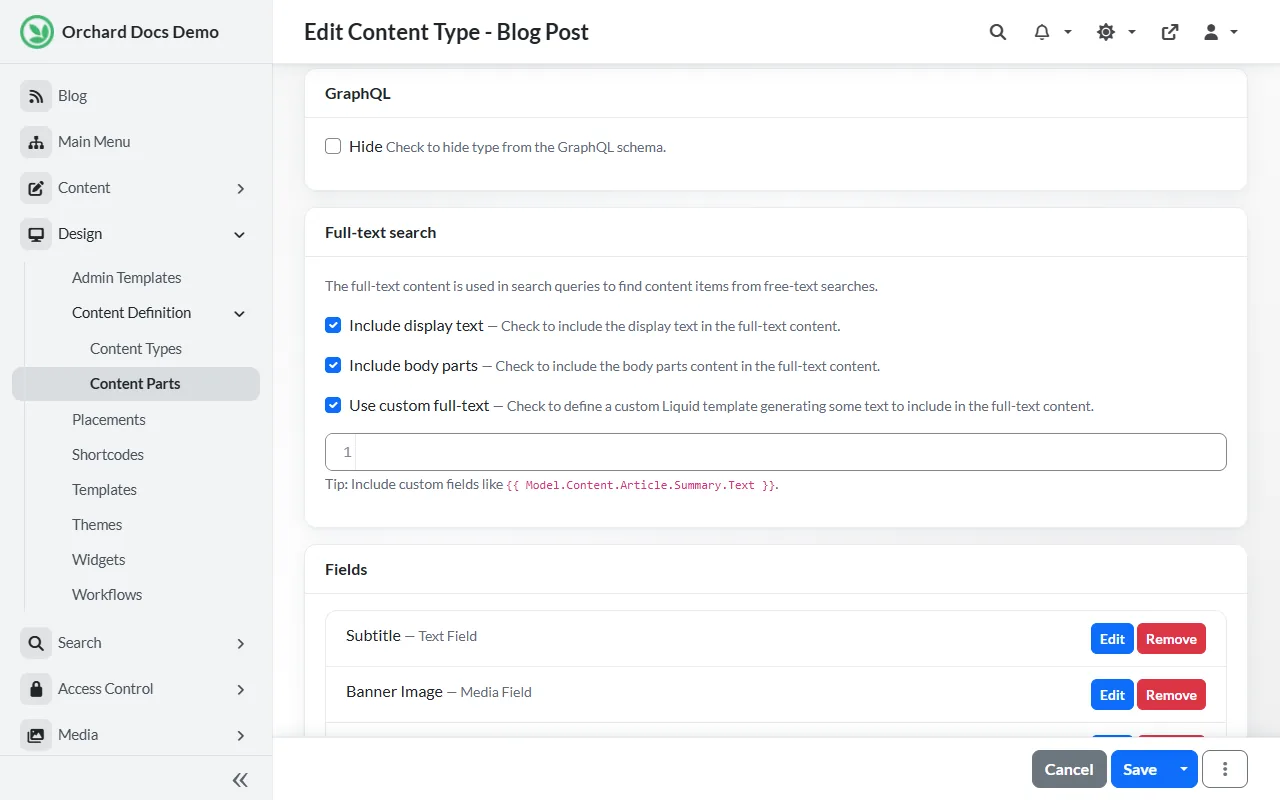
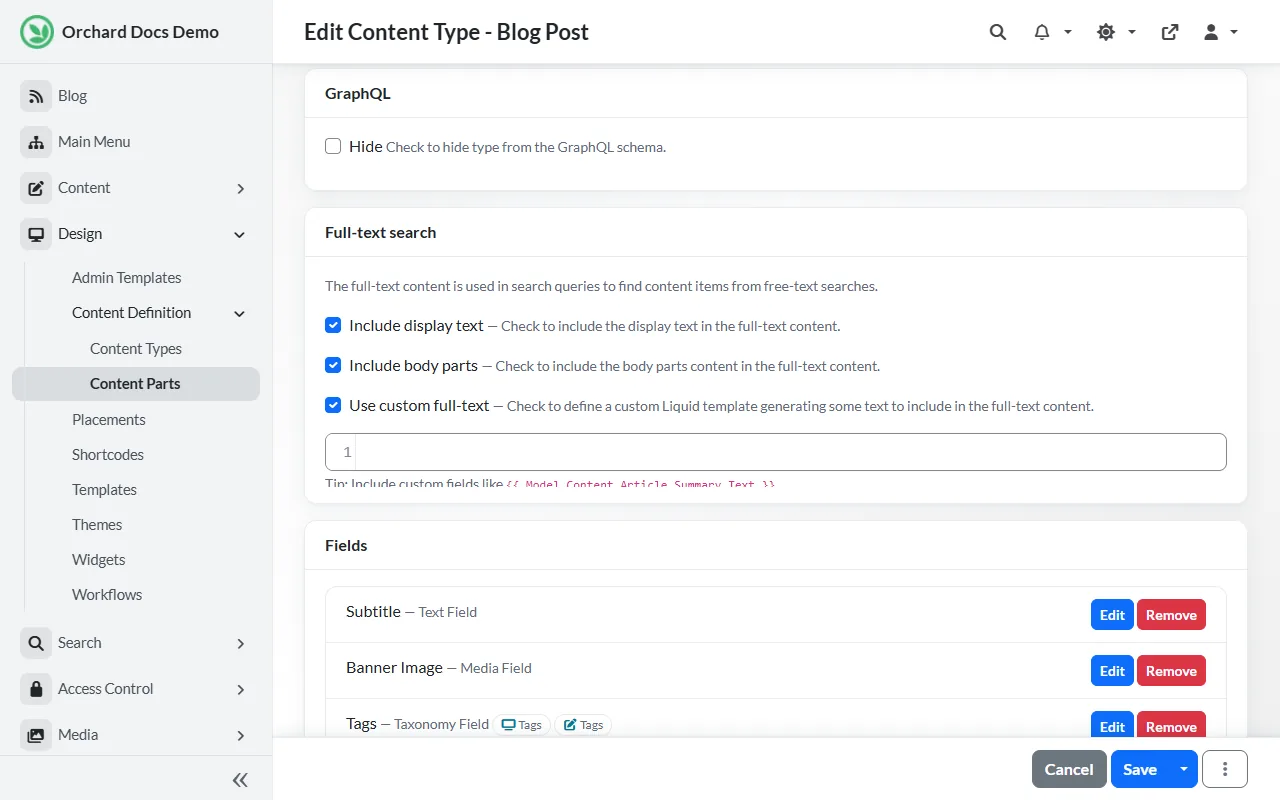
Take the screenshots of the decoupled CMS and CMS application guides
The script scrolls at once, as the admin theme scrolls smoothly and a shot
taken while it moves stops short.

diff --git a/.scripts/docs/screenshots.py b/.scripts/docs/screenshots.py
@@ -56,8 +56,8 @@ SEARCH_RESULTS = [("scroll", "input[name='Terms']", "start")]
 #   steps:     optional actions after opening the page: ("follow", selector) opens the address of the first matching
 #              link, even a hidden one; ("click", selector); ("fill", selector, value); ("type", selector, value) types
 #              the value key by key; ("select", selector, value);
-#              ("check", selector); ("uncheck", selector); ("scroll", selector[, "start"]) scrolls the first matching
-#              element to the middle, or the top, of its container; ("wait", milliseconds). Steps never save a form.
+#              ("check", selector); ("uncheck", selector); ("scroll", selector[, "start" or "end"]) scrolls the first
+#              matching element to the middle, the top or the bottom of its container; ("wait", milliseconds). Steps never save a form.
 #   anonymous: true to take the shot signed out.
 #   full_page: true to capture the whole page instead of the window (cut at 1600 pixels).
 #   site:      the site of SITES the shot is taken from, "blog" when omitted.
@@ -278,6 +278,38 @@ SHOTS = [
      "steps": [("follow", "a[href*='/Workflows/Types/Edit/']:has-text('Contact Form Workflow')"), ("wait", 1500),
                ("click", "[data-cy='toolbox-collapse']"), ("click", "[data-cy='panel-collapse']"),
                ("click", "[data-cy='zoom-fit']"), ("wait", 800)]},
+    # Guides 'Create a CMS application' and 'Decoupled CMS': the setup screen of a tenant that isn't set up yet, filled in.
+    {"file": "../guides/create-cms-application/images/setup-screen.webp", "path": "/Admin/Tenants",
+     "steps": [("follow", "a:has-text('Setup')"), ("fill", "#SiteName", "MySite"), ("click", "#recipeButton"),
+               ("click", "a[data-recipe-name='Blog']"), ("fill", "#UserName", "admin"), ("fill", "#Email", "admin@example.com")]},
+    {"file": "../guides/create-cms-application/images/blog-home-page.webp", "path": "/", "anonymous": True},
+    {"file": "../guides/decoupled-cms/images/setup.webp", "path": "/Admin/Tenants",
+     "steps": [("follow", "a:has-text('Setup')"), ("fill", "#SiteName", "My Site"), ("click", "#recipeButton"),
+               ("click", "a[data-recipe-name='Blank']"), ("fill", "#UserName", "admin"), ("fill", "#Email", "admin@example.com")]},
+    # Guide 'Decoupled CMS', in a tenant set up with the Blank site recipe, with the Markdown, Alias and Preview features.
+    # First with a 'Blog Post' type without parts:
+    {"file": "../guides/decoupled-cms/images/new-content-type.webp", "path": "/Admin/ContentTypes/Create", "tenant": "Decoupled",
+     "steps": [("type", "#DisplayName", "Blog Post")]},
+    {"file": "../guides/decoupled-cms/images/add-content-parts.webp", "path": "/Admin/ContentTypes/AddPartsTo/BlogPost", "tenant": "Decoupled",
+     "steps": [("check", "li:has(label:text-is('Title')) input[type='checkbox']"),
+               ("check", "li:has(label:text-is('MarkdownBody')) input[type='checkbox']")]},
+    # Then with the Title and Markdown Body parts, the Markdown Body using the Wysiwyg editor:
+    {"file": "../guides/decoupled-cms/images/edit-content-type.webp", "path": "/Admin/ContentTypes/Edit/BlogPost", "tenant": "Decoupled",
+     "steps": [("scroll", ".ta-content", "end")]},
+    {"file": "../guides/decoupled-cms/images/edit-markdownbody.webp", "path": "/Admin/ContentTypes/Edit/BlogPost", "tenant": "Decoupled",
+     "steps": [("follow", "a[href*='/ContentParts/MarkdownBodyPart/Edit']")]},
+    {"file": "../guides/decoupled-cms/images/edit-blogpost.webp", "path": "/Admin/Contents/ContentTypes/BlogPost/Create", "tenant": "Decoupled"},
+    # Then with the Alias part after the Title, the Preview part with the pattern of the guide, and the blog post 'This
+    # is a new day' with its generated alias 'this-is-a-new-day':
+    {"file": "../guides/decoupled-cms/images/content-items.webp", "path": "/Admin/Contents/ContentItems", "tenant": "Decoupled"},
+    {"file": "../guides/decoupled-cms/images/edit-alias.webp", "path": "/Admin/Contents/ContentItems", "tenant": "Decoupled",
+     "steps": [("follow", "a[href*='/Edit']:has-text('This is a new day')"), ("fill", "input[name='AliasPart.Alias']", "new-day")]},
+    {"file": "../guides/decoupled-cms/images/alias-pattern.webp", "path": "/Admin/ContentTypes/Edit/BlogPost", "tenant": "Decoupled",
+     "steps": [("follow", "a[href*='/ContentParts/AliasPart/Edit']")]},
+    {"file": "../guides/decoupled-cms/images/generated-alias.webp", "path": "/Admin/Contents/ContentItems", "tenant": "Decoupled",
+     "steps": [("follow", "a[href*='/Edit']:has-text('This is a new day')")]},
+    {"file": "../guides/decoupled-cms/images/preview-pattern.webp", "path": "/Admin/ContentTypes/Edit/BlogPost", "tenant": "Decoupled",
+     "steps": [("follow", "a[href*='/ContentParts/PreviewPart/Edit']")]},
     # Guide 'Microsoft Entra ID integration', in a tenant set up with the Blog recipe. Taken before enabling the
     # Microsoft Entra ID Authentication and Users Registration features:
     {"file": "../guides/microsoft-entra-id-integration/images/entra-id-feature.webp", "path": "/Admin/Features", "tenant": "EntraId",
@@ -344,7 +376,8 @@ def capture(page, url, shot):
             page.uncheck(step[1], force=True)
         elif step[0] == "scroll":
             block = step[2] if len(step) > 2 else "center"
-            page.locator(step[1]).first.evaluate("(element, block) => element.scrollIntoView({ block })", block)
+            # Scroll at once: the admin theme scrolls smoothly, which would still be moving when the shot is taken.
+            page.locator(step[1]).first.evaluate("(element, block) => element.scrollIntoView({ block, behavior: 'instant' })", block)
         elif step[0] == "wait":
             page.wait_for_timeout(step[1])
 

diff --git a/src/docs/guides/decoupled-cms/README.md b/src/docs/guides/decoupled-cms/README.md
@@ -124,7 +124,7 @@ app.Run();
 
 Start the application, the Setup screen shows up:
 
-![Setup](images/setup.jpg)
+![The setup screen, with My Site as the site name and the Blank site recipe.](images/setup.webp)
 
 ### Setting up a new site
 
@@ -171,16 +171,16 @@ Let's create a new content type named `Blog Post` and add some necessary content
 - Click on __Create new type__ in the top right corner
 - In __Display Name__ enter `Blog Post`. The __Technical Name__ will be generated automatically with the value `BlogPost`, like this:
 
-![New Content Type](images/new-content-type.jpg)
+![The New Content Type page, with Blog Post as the display name.](images/new-content-type.webp)
 
 - Click __Create__
 - A list of __Content Parts__ is presented. Select __Title__ and __Markdown Body__, then click on __Save__
 
-![Add Content Parts](images/add-content-parts.jpg)
+![The Add Parts page of Blog Post, with MarkdownBody and Title checked.](images/add-content-parts.webp)
 
 - In the following screen, scroll to the bottom of the page and re-order the Parts like this:
 
-![Edit Content Type](images/edit-content-type.jpg)
+![The Blog Post content type editor, with the Title and MarkdownBody parts.](images/edit-content-type.webp)
 
 - Then click __Save__
 
@@ -189,7 +189,7 @@ You can notice an __Edit__ button in front of each content part. This lets us de
 - On the `MarkdownBody` part, click __Edit__.
 - Select __`Wysiwyg editor`__ as the type of editor to use, then click __Save__:
 
-![Edit Markdown Body Type](images/edit-markdownbody.jpg)
+![The MarkdownBody part settings of Blog Post, with the Wysiwyg editor.](images/edit-markdownbody.webp)
 
 The __Blog Post__ content type is ready to use.
 
@@ -198,11 +198,11 @@ The __Blog Post__ content type is ready to use.
 - In the left menu, select __Content__ then __ContentItems__
 - Click on __New Blog Post__ to reveal an editor for the newly created `BlogPost` content type.
 
-![Edit Blog Post](images/edit-blogpost.jpg)
+![The editor of a new blog post, with its Title and MarkdownBody.](images/edit-blogpost.webp)
 
 - Fill in the __Title__ and the __MarkdownBody__ form elements with some content, then click on __Publish__. For the sake of this example we'll use `This is a new day` and some Lorem Ipsum text.
 
-![Content Items](images/content-items-1.jpg)
+![The content items list, with the blog post This is a new day.](images/content-items.webp)
 
 This shows that we now have a new blog post content item named `This is a new day`. As we create more content items these will appear on this page.
 
@@ -320,7 +320,7 @@ In Orchard Core CMS the __Alias Part__ allows to provide a custom user friendly 
 - Move __Alias__ under __Title__ and save
 - Edit the blog post, the __Alias__ text box is now displayed, in which you can enter some text. In this example we'll use `new-day`
 
-![Edit Alias](images/edit-alias.jpg)
+![The editor of the blog post, with new-day as its alias.](images/edit-alias.webp)
 
 We can now update the Razor Page to use the alias instead of the content item id, in both the URL and in the way we load the content item.
 
@@ -355,7 +355,7 @@ The __Alias Part__ provides some custom settings in order to let it be generated
 - Edit the content definition of Blog Post, and for the __Alias Part__ click on __Edit__.
 - In the __Pattern__ textbox note the pre-filled pattern:
 
-![Edit Alias Pattern](images/alias-pattern.jpg)
+![The Alias part settings of Blog Post, with the pattern of the alias.](images/alias-pattern.webp)
 
 This will dynamically extract the `DisplayText` property of a content item, in our case the __Title__, and call the `slugify` filter on this values, which will turn the title into a value that can be used in slugs.
 
@@ -365,7 +365,7 @@ This will dynamically extract the `DisplayText` property of a content item, in o
 
 The alias is now `this-is-a-new-day`:
 
-![Generated Alias](images/generated-alias.jpg)
+![The editor of the blog post, with its generated alias this-is-a-new-day.](images/generated-alias.webp)
 
 - Open the URL `/blogpost/this-is-a-new-day` to confirm that the route still works with this auto-generated alias.
 
@@ -389,7 +389,7 @@ The CMS doesn't know what Razor Page to use when rendering a content item, and w
 - In the list of parts, for __Preview__, click on __Edit__ to change its settings for this content type.
 - In the __Pattern__ textbox, enter `/blogpost/{{ ContentItem.Content.AliasPart.Alias }}` which is the way to generate the same URL as the route which is configured in the Razor page.
 
-![Edit Preview Pattern](images/preview-pattern.jpg)
+![The Preview part settings of Blog Post, with the pattern of the preview URL.](images/preview-pattern.webp)
 
 - Click __Save__ and open the preview of a Blog Post while editing it.
 

diff --git a/src/docs/guides/create-cms-application/README.md b/src/docs/guides/create-cms-application/README.md
@@ -49,11 +49,11 @@ For demonstration purposes, we will create the website using the __Blog__ recipe
 
 Complete the setup form and select the __Blog__ recipe and __SQLite__ for the database.
 
-![image](assets/setup-screen.jpg)
+![The setup screen, with MySite as the site name and the Blog recipe.](images/setup-screen.webp)
 
 Submit the form. A few seconds later you should be looking at a Blog Site.
 
-![image](assets/blog-home-page.jpg)
+![The home page of the Blog recipe.](images/blog-home-page.webp)
 
 In order to configure it and start writing content you can go to <https://localhost:5001/admin>.
 
